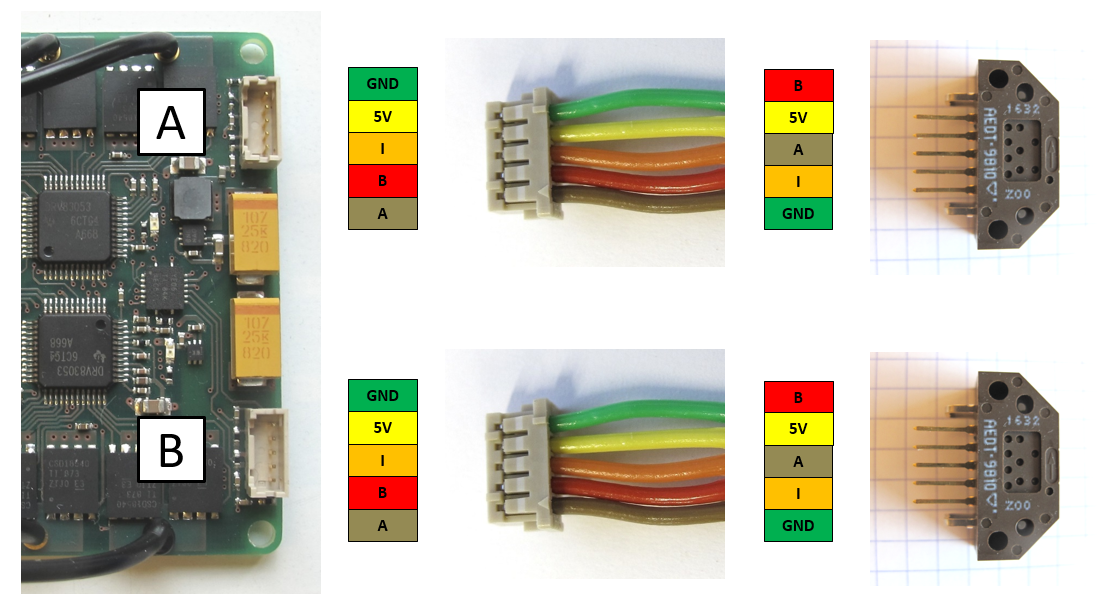
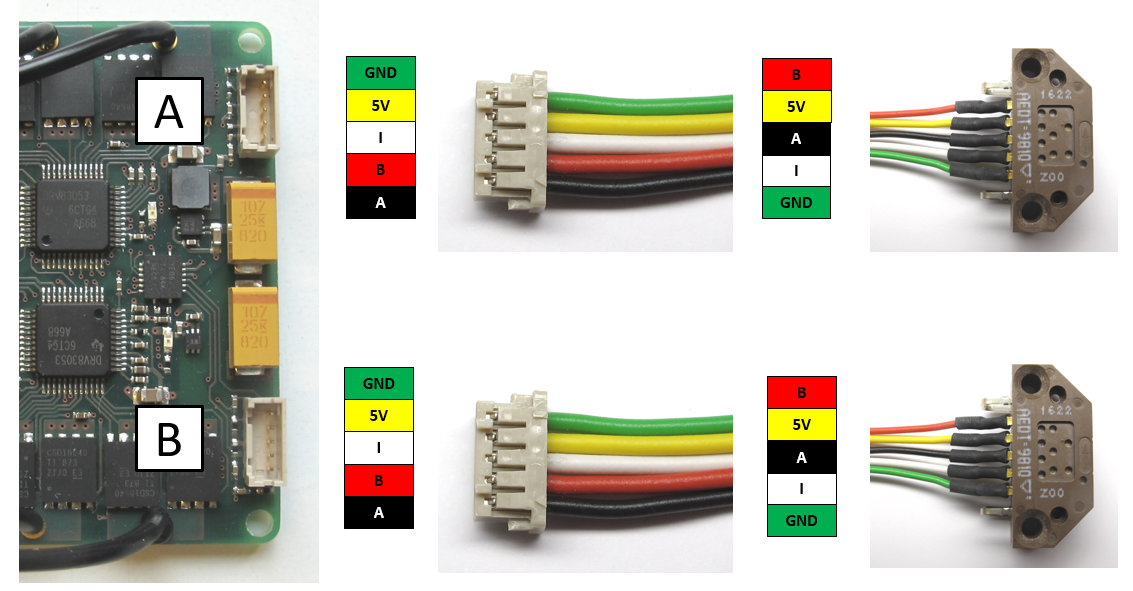
Adding wiring documentation - Kabeltronik cables

diff --git a/electronics/details/details_wiring.md b/electronics/details/details_wiring.md
@@ -1,20 +1,26 @@
 # Details Wiring
+
 ## Wiring - Encoder to Micro Driver Electronics
-<img src="../images/encoder_wiring_micro_driver.png" width="600"> <br>*Encoder Wiring for the Micro Driver Electronics*
+<img src="../images/encoder_wiring_micro_driver.png" width="600"> <br>*Encoder wiring with Kabeltronik cables*
 
----
-## Wiring - Encoder to TI Launchpad
-<img src="../images/encoder_wiring_launchpad.jpg" width="600"> <br>*Encoder Wiring for the TI Launchpad*
-
----
 ## Wiring - Master Board to Micro Driver Boards
 
 <img src="../images/spi_wiring_1.png" width="600"> <br>*SPI bus connection between the master board and the micro driver boards*
 
 * high frequency spi bus - keep the wires short
 ---
+
+## Wiring Ribbon Cables- Encoder to Micro Driver Electronics
+<img src="../images/encoder_wiring_micro_driver_ribbon_cable.png" width="600"> <br>*Encoder wiring with ribbon cables*
+
+---
+## Wiring Ribbon Cables - Encoder to TI Launchpad
+<img src="../images/encoder_wiring_launchpad.jpg" width="600"> <br>*Encoder wiring with ribbon cables*
+
+---
+
 ## Wiring - Foot Sensor
-<img src="../images/foot_sensor_wiring.jpg" width="600"> <br>*Foot Sensor Wiring*
+<img src="../images/foot_sensor_wiring.jpg" width="600"> <br>*Foot sensor wiring*
 
 ---
 ## CAN Connector Wiring
@@ -35,6 +41,8 @@ Copyright (c) 2019-2020, Max Planck Gesellschaft and New York University
 ## More Information
 [Open Dynamic Robot Initiative - Webpage](https://open-dynamic-robot-initiative.github.io)  
 [Open Dynamic Robot Initiative - YouTube Channel](https://www.youtube.com/channel/UCx32JW2oIrax47Gjq8zNI-w)   
-[Hardware Overview](../../README.md)  
+[Open Dynamic Robot Initiative - Forum](https://odri.discourse.group/categories)  
+[Open Dynamic Robot Initiative - Paper](https://arxiv.org/pdf/1910.00093.pdf)  
+[Hardware Overview](../../README.md#open-robot-actuator-hardware)  
 [Software Overview](https://github.com/open-dynamic-robot-initiative/open-dynamic-robot-initiative.github.io/wiki)  
 [Back to Electronics](../README.md)  
